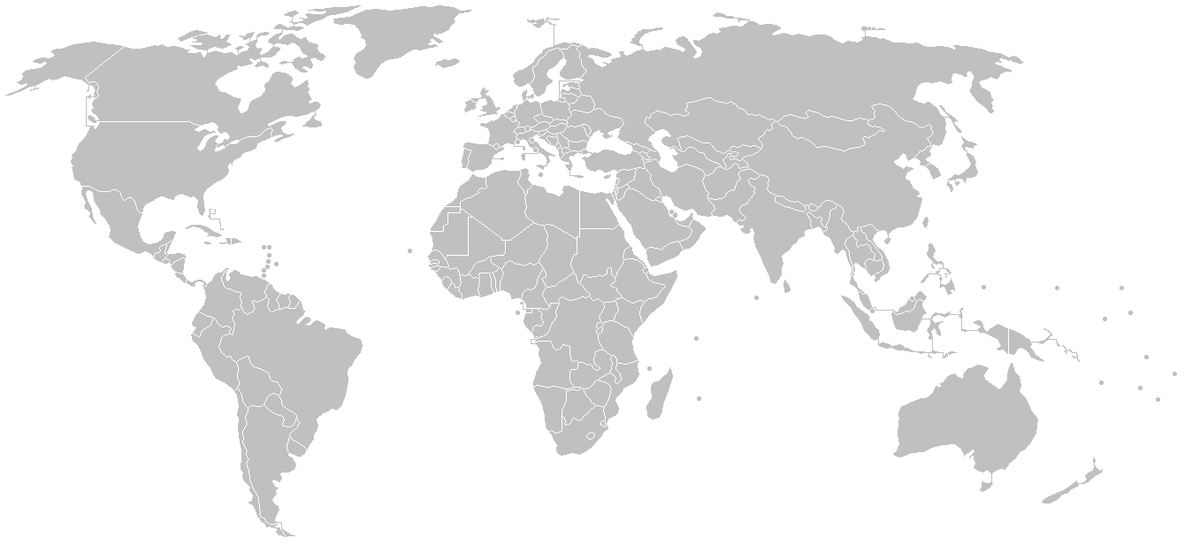
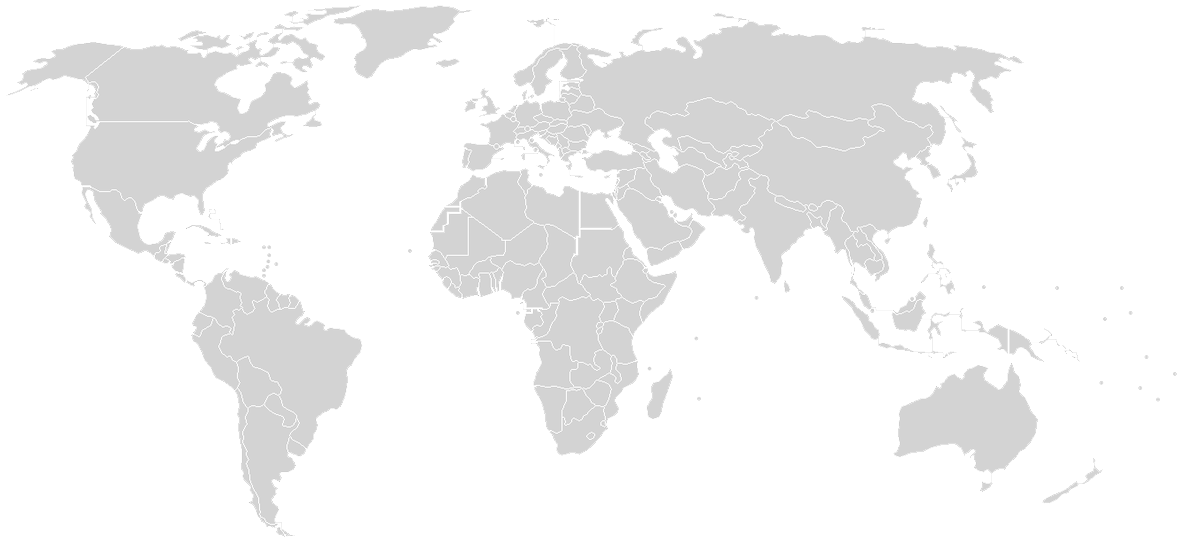
map tijdelijk

diff --git a/public/styleMap.css b/public/styleMap.css
@@ -390,11 +390,12 @@ h2 {
 
 /* data-container */
 .data-container h2 {
-    font-size: 2rem;
+    font-size: 1.8rem;
 }
 
 .data-container h3 {
     font-size: 1.5rem;
+    margin-bottom: 1rem;
 }
 
 .data-container h4 {
@@ -717,7 +718,7 @@ tr {
     .container2 {
         margin: 5rem 2rem 2rem 22.3rem;
         grid-template-columns: 1fr 1fr 2fr 1fr 1fr;
-        grid-template-rows: 0.01fr 0.1fr 0.3fr 0.4fr 0.4fr 0.6fr;
+        grid-template-rows: 0.01fr 0.1fr 0.3fr 0.4fr 0.6fr 0.6fr;
         grid-template-areas:
             "menu menu menu menu menu"
             "header-dashboard header-dashboard header-dashboard header-dashboard header-dashboard"
@@ -737,8 +738,10 @@ tr {
     }
 
     .map img {
-        width: 80%;
+        width: 90%;
+        margin: 0 auto;
     }
+
 
     .box-1,
     .box-2,
@@ -821,10 +824,6 @@ tr {
         color: var(--lightBlue);
         font-weight: 500;
         font-size: 1.8rem;
-    }
-
-    .map img {
-        margin: 8rem auto;
     }
 
     h3 {

diff --git a/public/style.css b/public/style.css
@@ -23,7 +23,13 @@
   --boxShadow: rgba(128, 128, 128, 0.132);
   --textSize: 1.2rem;
   --iconSize: 2rem;
+  --color: rgb(212, 212, 212);
+
 }
+
+
+
+
 
 html {
   font-size: 62.5%;
@@ -318,10 +324,6 @@ button {
   height: 2px;
   width: 18%;
   background-color: var(--lightBlue);
-}
-
-.map img {
-  width: 100%;
 }
 
 .box-1,
@@ -686,7 +688,8 @@ tr {
   }
 
   .map img {
-    width: 100%;
+    width: 90%;
+    margin: 0 auto;
   }
 
   .box-1,
@@ -774,10 +777,6 @@ tr {
     color: var(--lightBlue);
     font-weight: 500;
     font-size: 1.8rem;
-  }
-
-  .map img {
-    margin: 8rem auto;
   }
 
   h3 {
